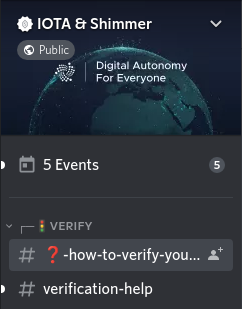
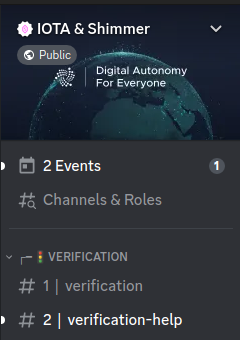
New verification and onboarding (#864)

diff --git a/common/community/the-community/discord.md b/common/community/the-community/discord.md
@@ -19,23 +19,18 @@ Make sure to read the server rules and accept them.
 
 ![discord-first-steps](/img/participate/discord-verification/first_steps_discord_1.png)
 
-Before verification, the list of channels will be very limited. Use the **#verification-help** channel to get support for the verification.
+Before verification, the list of channels will be very limited. Use the **#1 ｜ verification** channel to verify your user.
 
 ![discord-verify-yourself](/img/participate/discord-verification/verify_yourself_discord_2.png)
 
 ## Verification Process
 
-Make sure to have DMs (direct messages) enabled.
+Click on the **Verify** button in the channel
 
-![discord-enable-dm](/img/participate/discord-verification/enable_dm_discord_3.png)
+![discord-panel](/img/participate/discord-verification/panel_discord_3.png)
 
-:::note
-
-After the verification process, it is suggested to disable direct messages as those are prone to be used to send spam messages or scams.
-
-:::
-
-The verification system will send a direct message. Click on the **Click me to verify!** link to start with the verification.
+The verification system will send a message in the channel.
+Click on the **Click me to verify!** link to start with the verification.
 
 ![discord-verify](/img/participate/discord-verification/verify_click_discord_4.png)
 
@@ -55,18 +50,18 @@ A series of channels and categories are unlocked once your account is verified.
 
 **Onboarding**
 
-- Visit the 🏁 ｜ first-steps channel
-  Click on the button there to start with the onboarding and unlocking further categories and channels based on your interests.
+- Visit **Channels & Roles**  
+  Click on the buttons there to start with the onboarding and unlocking further categories and channels based on your interests.
 
 ## Next steps
 
-- Visit the 📋 ｜ learn-the-rules channel
+- Visit the 📋 ｜ learn-the-rules channel  
   Please read the information there to learn about our rules and tips.
 
-- Access the 🦺 ｜ stay-safe channel
+- Access the 🦺 ｜ stay-safe channel  
   Read the tips there to understand how to stay safe on Discord.
 
-- Access the 📛 ｜ get-your-badges channel
+- Access the 📛 ｜ get-your-badges channel  
   Within the IOTA Community, we use Discord roles as badges and to enable members to identify themselves within a group or get write access in regional channels. The roles are also used to notify the members of specific or dedicated events and polls or surveys.
 
 ---
